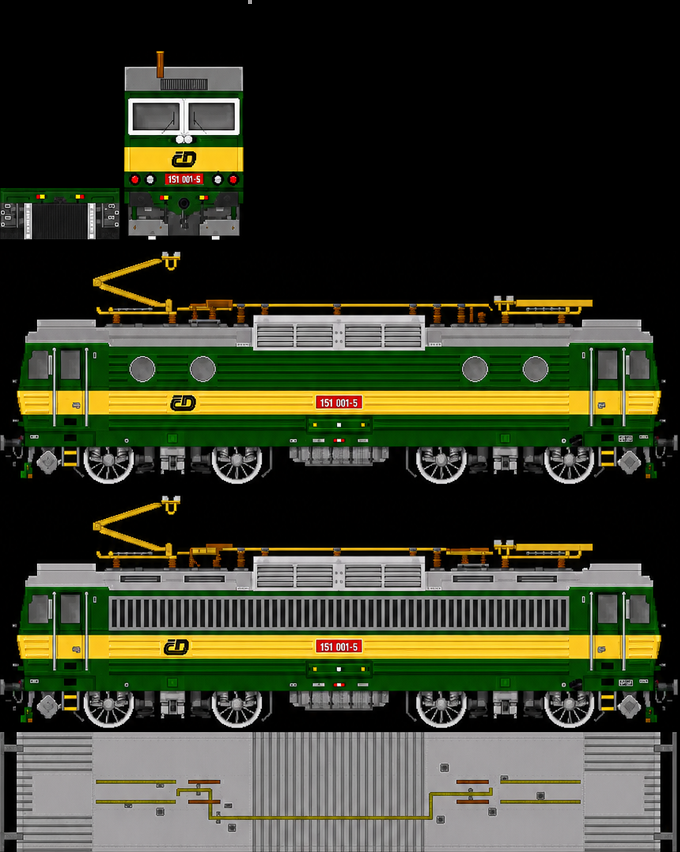
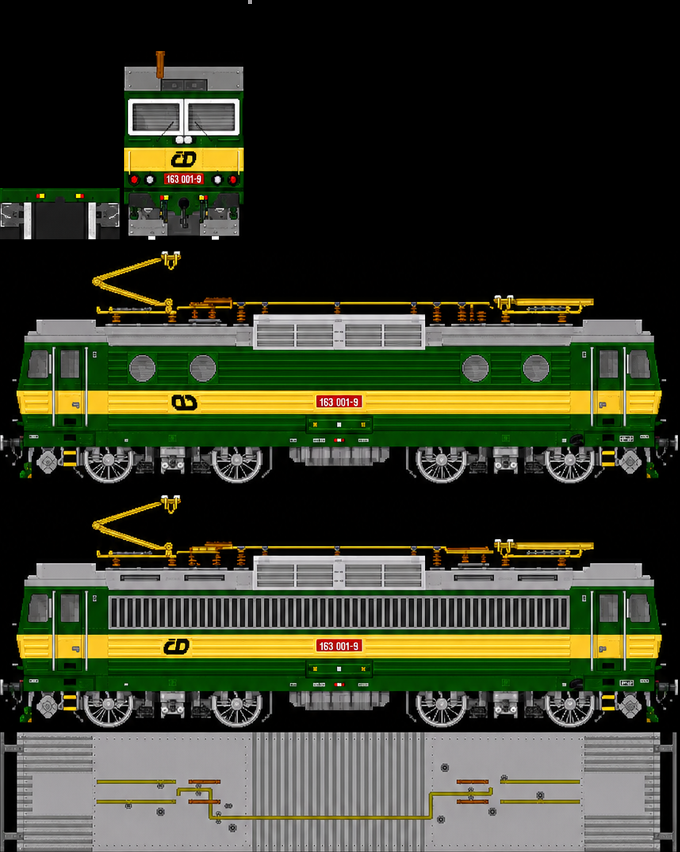
Add context-aware atlas prompt for improved model resolution

diff --git a/scripts/remaster_atlas.py b/scripts/remaster_atlas.py
@@ -72,6 +72,20 @@ ATLAS_PROMPT = (
 )
 
 
+def atlas_prompt_for(model_dir: Path) -> str:
+    """Atlas prompt plus the model's catalogue identifier as context, so the model
+    can resolve a blurry running number to the correct class (e.g. cd_163 -> 163)."""
+    rel = model_dir.relative_to(_repo_root())
+    return ATLAS_PROMPT + (
+        f" Context — this vehicle's catalogue identifier is '{model_dir.name}' "
+        f"(path '{rel}'). Use it to resolve any text that is too blurry to read for "
+        "certain: in particular, the running/serial number painted on the vehicle must "
+        "be consistent with this identifier's class/series digits (for example a name "
+        "like 'cd_163' means the number is a 163-series number, not 151). Do not invent "
+        "a different class number than the one implied by the identifier."
+    )
+
+
 # ---------------------------------------------------------------------------
 # Model resolution
 # ---------------------------------------------------------------------------
@@ -284,7 +298,8 @@ def prepare(model_dir: Path, out_root: Path, client, quality: str, pad: int,
     else:
         buf = io.BytesIO()
         raw_for_ai.save(buf, "PNG")
-        resp = call_openai_edit(client, buf.getvalue(), size, quality, prompt=ATLAS_PROMPT)
+        resp = call_openai_edit(client, buf.getvalue(), size, quality,
+                                prompt=atlas_prompt_for(model_dir))
         ai = Image.open(io.BytesIO(base64.b64decode(resp.data[0].b64_json))).convert("RGB")
         usage = extract_usage(resp)
         cost = compute_cost(usage, quality)
